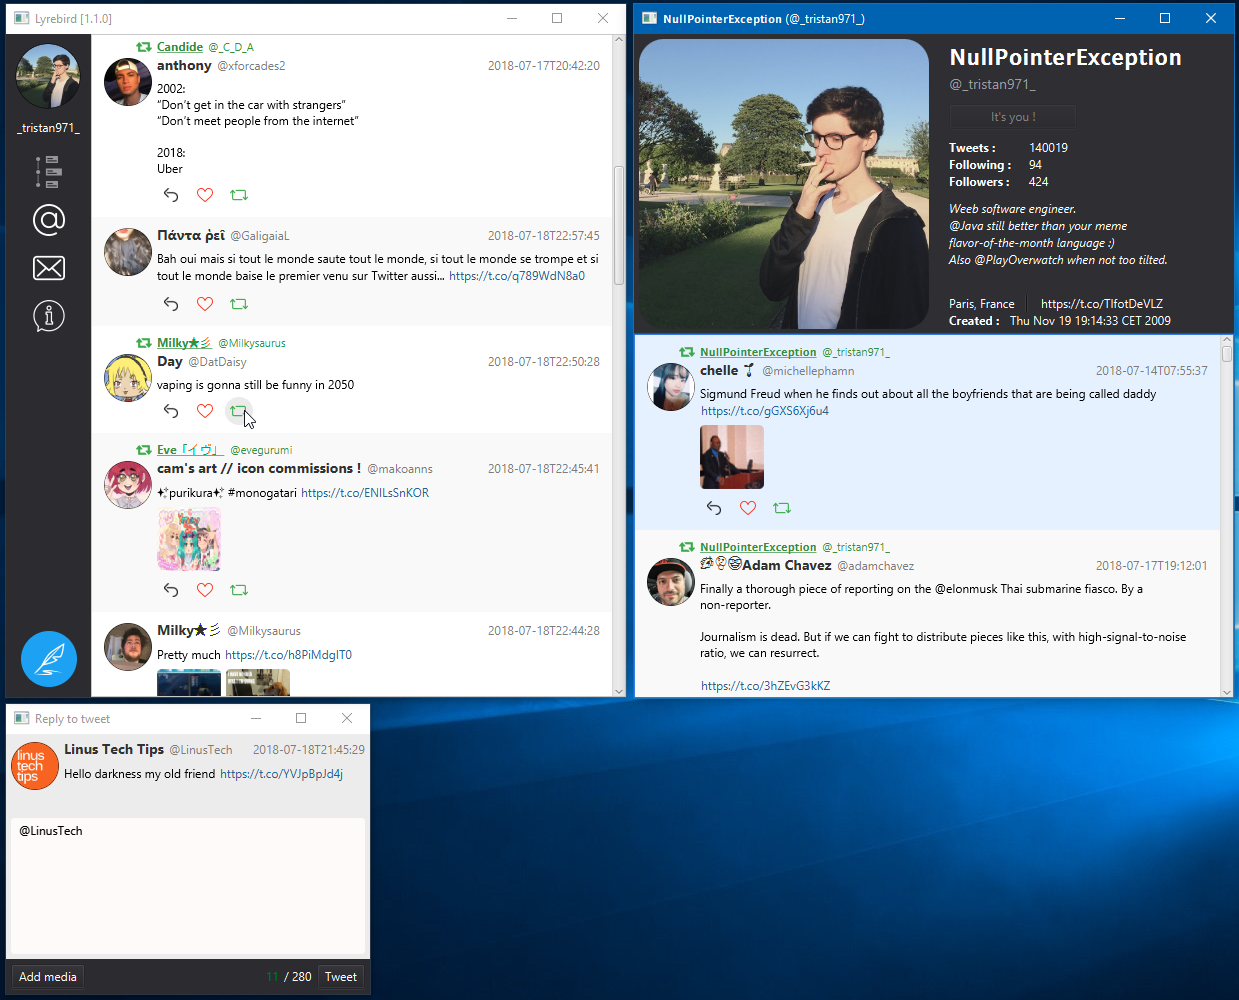
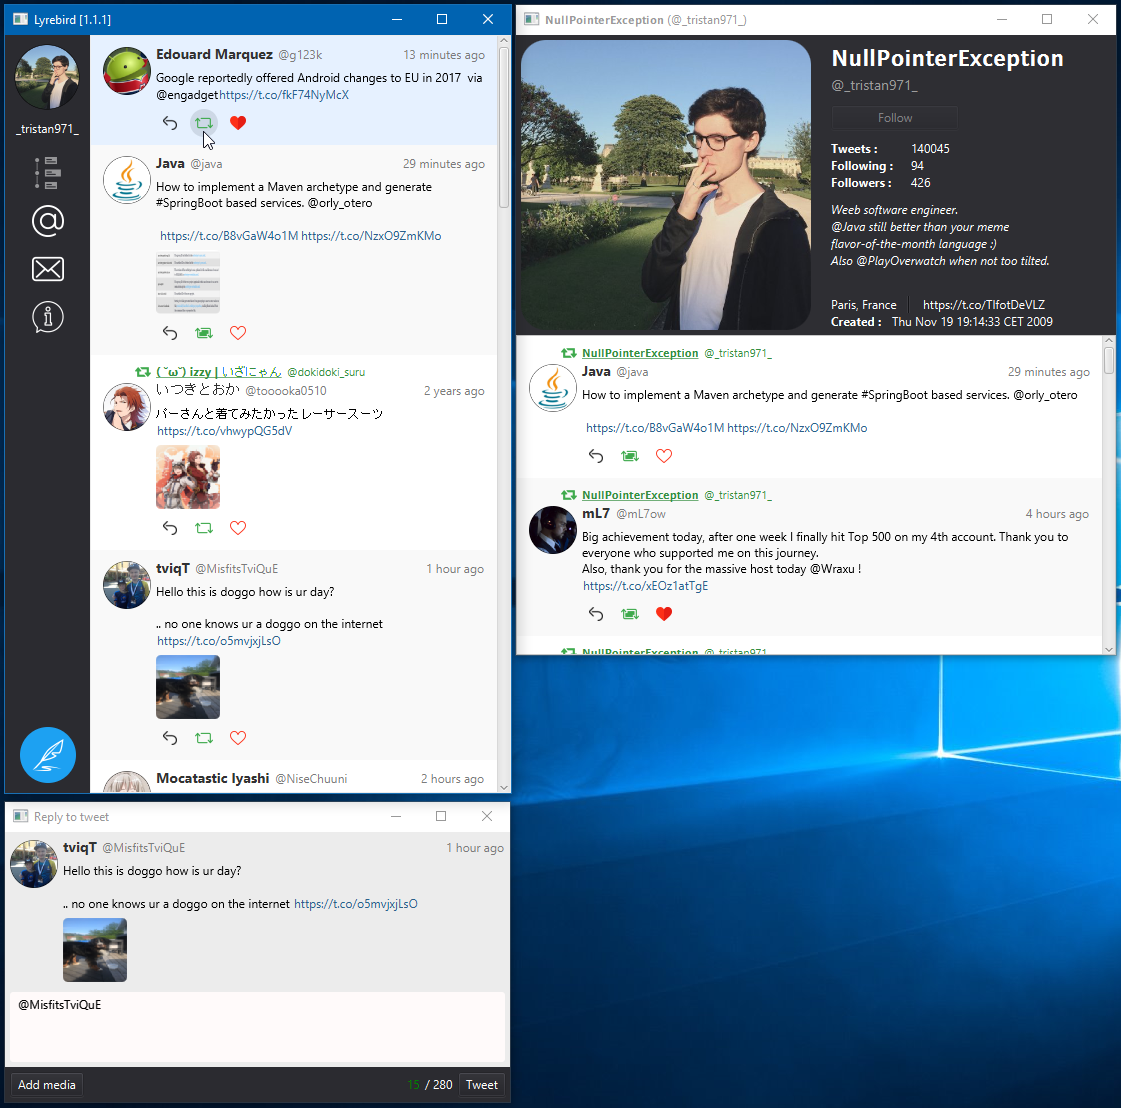
Update README and screenshot of the application

diff --git a/README.md b/README.md
@@ -64,7 +64,7 @@ Then any of the following (in `Lyrebird/lyrebird` folder):
             - [ ] Officially supported
                 - [x] Twitter image embedding
                 - [x] Twitter video embedding
-                - [ ] Twitter gif images embedding
+                - [x] Twitter gif images embedding
             - [ ] Easy embedding
                 - [ ] Direct image embedding
                 - [ ] Direct video embedding
